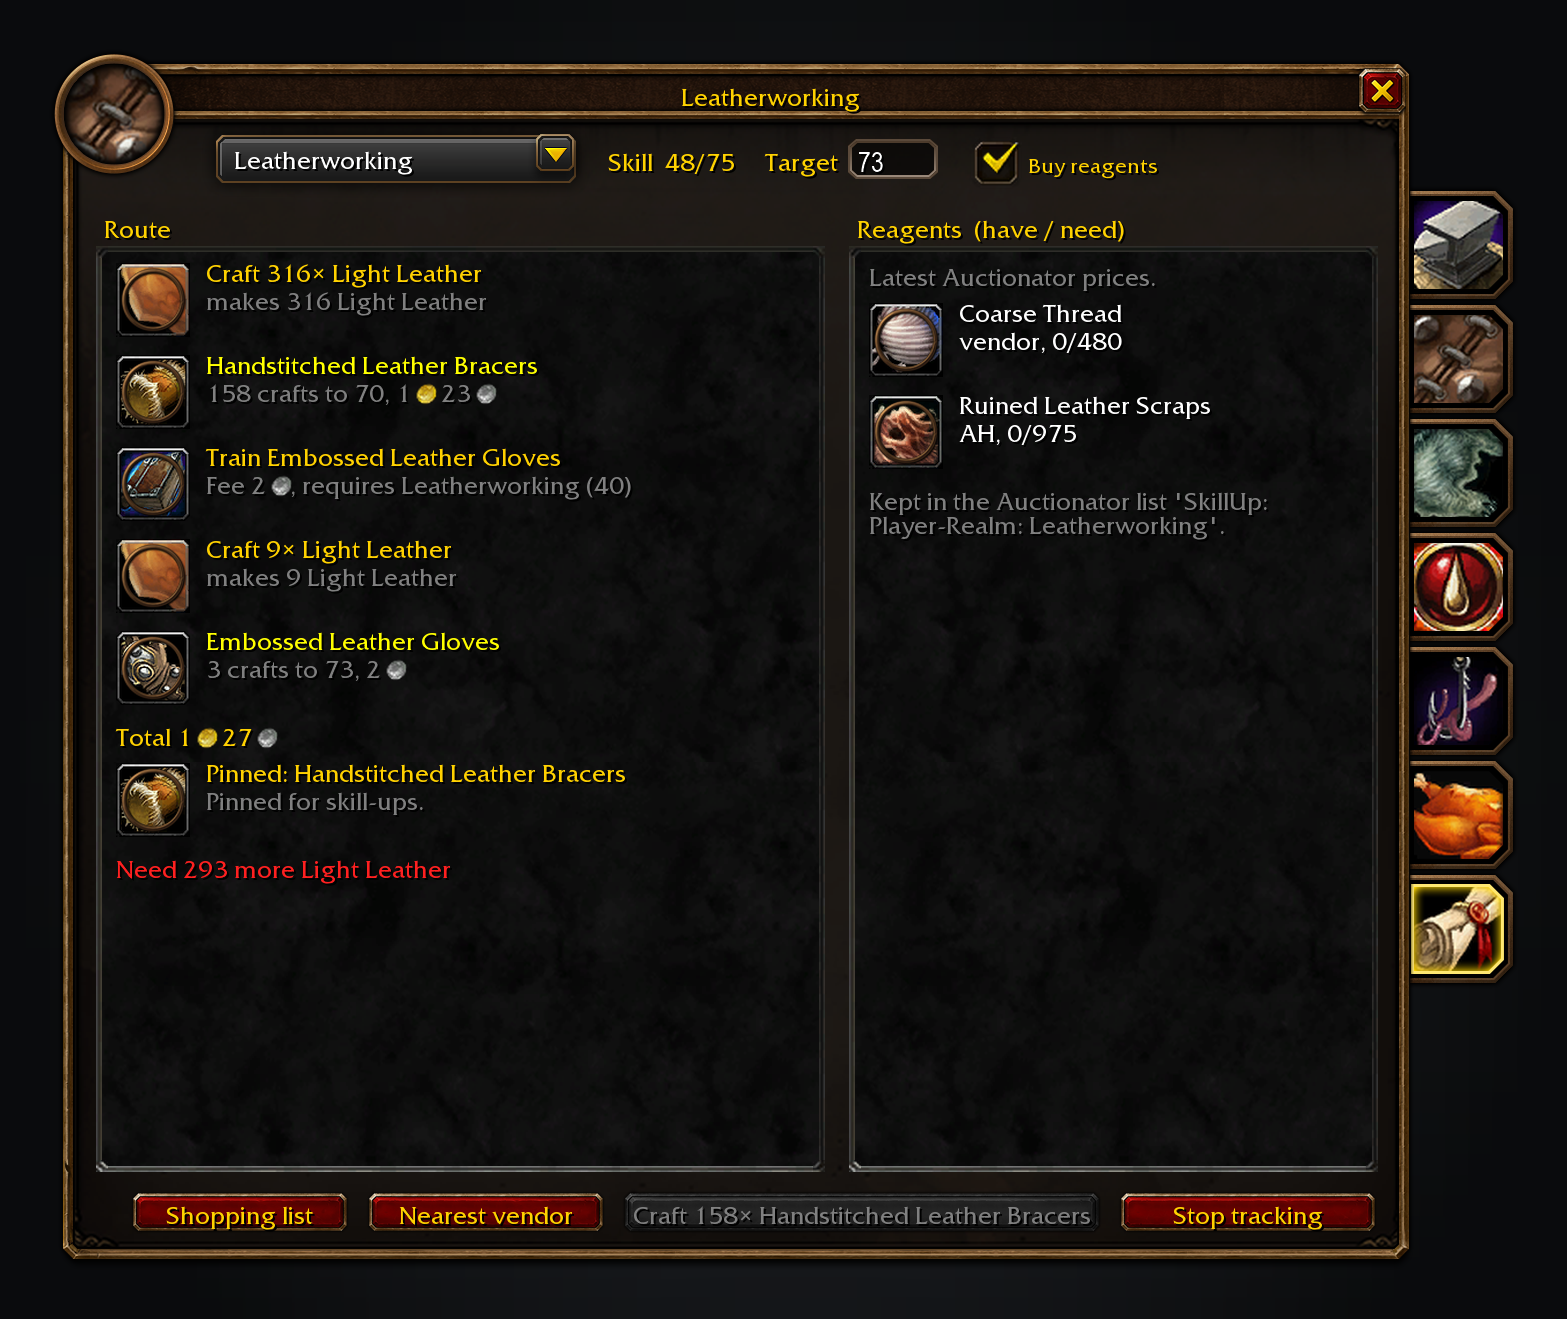
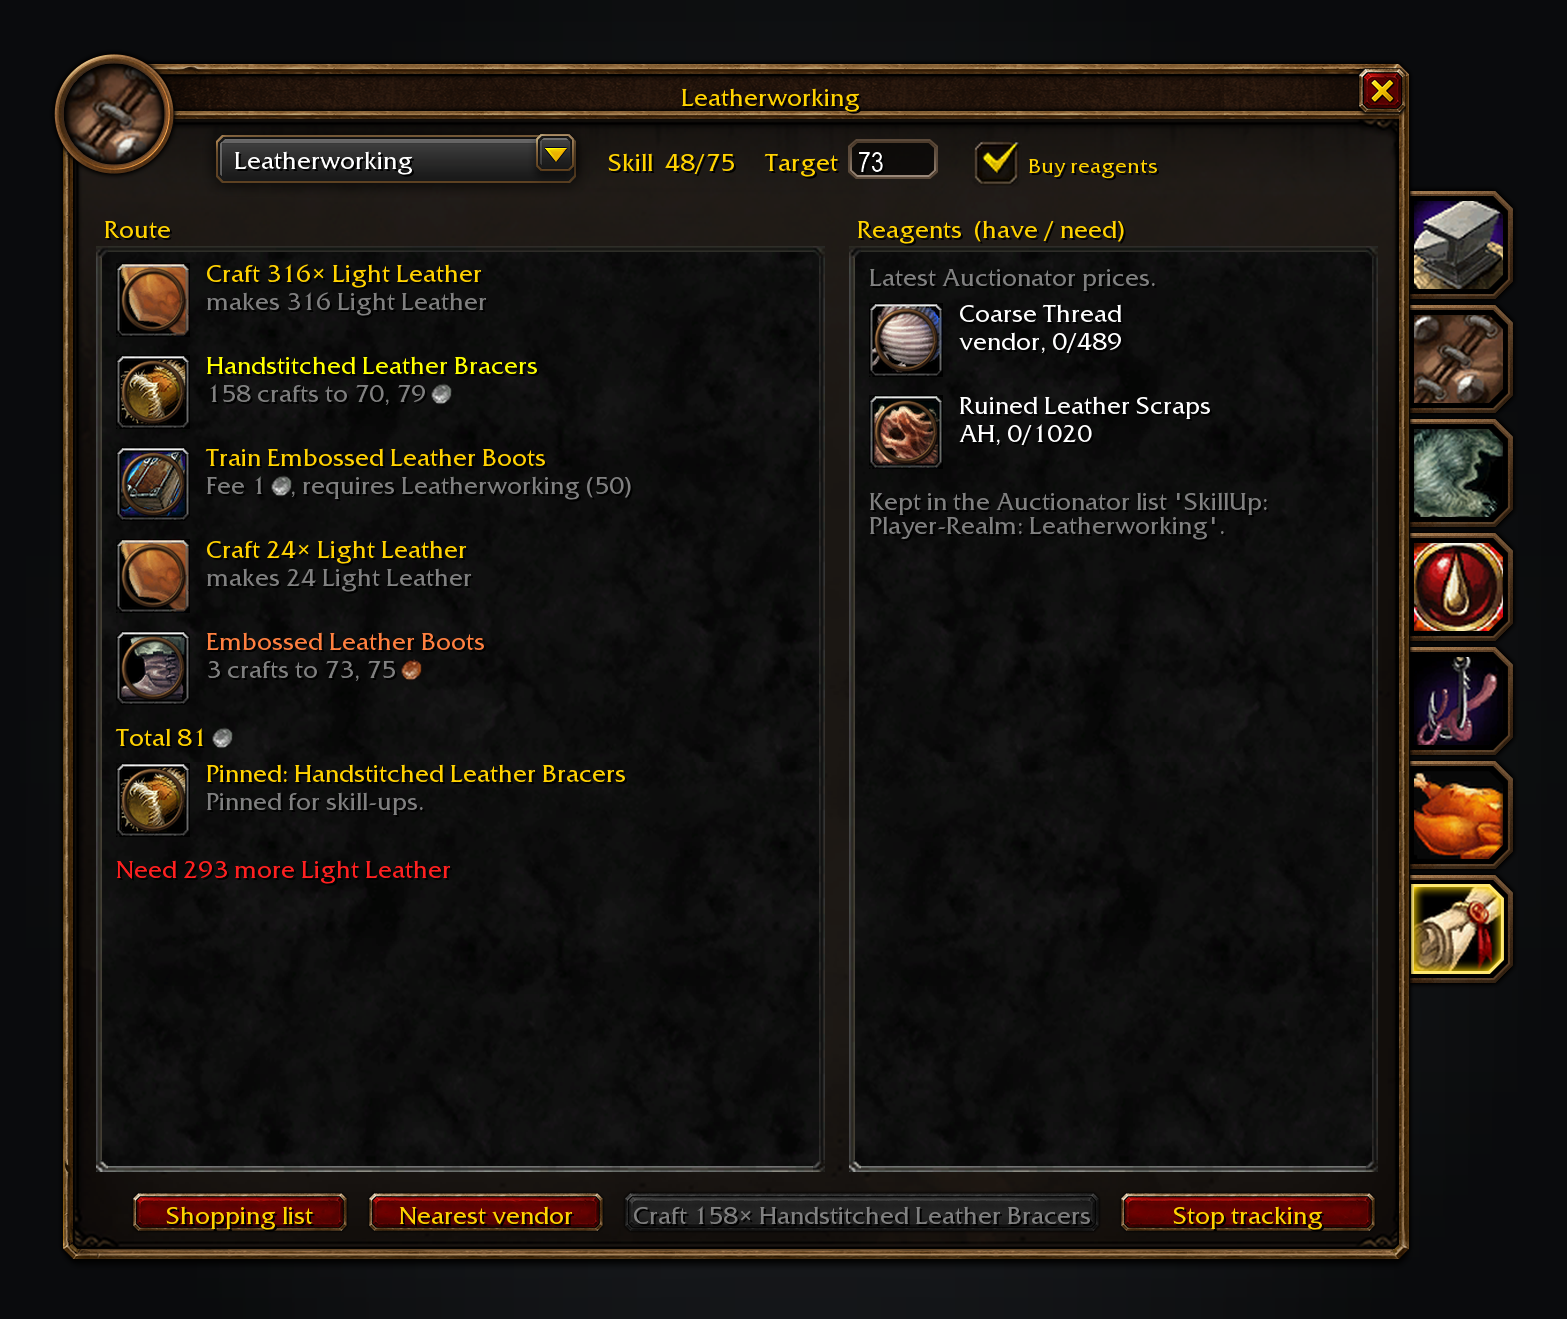
fix(route): count what crafts sell for on every craft in a step (#469)
Closes #466

Every craft in a step now counts what it sells for under *Count what
crafts sell for*. The planner ranking keeps the #400 guard
(`Model.RouteStepCost`). The route renders were re-recorded.
`model_spec`, `plan_spec` and `planner_spec` fail on the old code.

/reload test: in First Aid, check that a bandage step that vendors above
its cloth shows a gain.

🤖 Generated with [Claude Code](https://claude.com/claude-code)

https://claude.ai/code/session_01BVTqQ21nK39sQjK88Mje6P

diff --git a/docs/route.md b/docs/route.md
@@ -9,7 +9,7 @@ A map tab under the Professions window's side tabs opens a SkillUp page. Pick an
 ### How it picks
 
 - Each skill point uses the most recently pinned recipe that can gain skill, or the recipe with the lowest cost per skill-up when none is pinned.
-- A step asks for enough crafts to reach its target in nine runs out of ten, worked out from the chance at each skill point on the way, not from the average. An orange recipe is unchanged; a yellow or green one carries its risk in its price, so the route leans on it less. The craft that earns a point costs its net, and the extra crafts a falling chance needs are priced at its reagents, so a near-grey recipe does not hold the route into grey. In choosing, each craft also costs a little for its time, so a stretch where the chance falls to 1 in 30 loses to a recipe with a better chance even when its reagents are free.
+- A step asks for enough crafts to reach its target in nine runs out of ten, worked out from the chance at each skill point on the way, not from the average. An orange recipe is unchanged; a yellow or green one carries its risk in its price, so the route leans on it less. A recipe that costs money prices every craft at its net, so what its products sell for lowers the whole step, not only the first craft. A free or profitable recipe's extra crafts a falling chance needs are priced at its reagents, so a near-grey recipe does not hold the route into grey. In choosing, each craft also costs a little for its time, so a stretch where the chance falls to 1 in 30 loses to a recipe with a better chance even when its reagents are free.
 - Recipes a trainer teaches are included when they pay for themselves or you pin them, shown as a *Train* step with its fee. The fee is counted once, and never before the trainer would teach them.
 - Recipes with an unpriced reagent are left out and counted.
 - Recipes you said *Not this recipe* to are left out (see below).

diff --git a/CHANGELOG.md b/CHANGELOG.md
@@ -12,6 +12,8 @@ optional `### For addon authors` subsection after a version's player bullets.
 
 ## [Unreleased]
 
+- **A recipe's product now lowers the cost of every craft in its step, not only the first.** The route page priced a step's first craft with what its product sells for and every later craft at its full reagent cost, so a bandage that vendors above its cloth showed only the cloth's cost, and a profitable recipe never showed the gain its gold made. Every craft now counts the sale under *Count what crafts sell for*, while a free or profitable recipe's extra crafts still pay their reagents so a run to grey does not look free. Reported on CurseForge by st3nlee (#466).
+
 ## [1.1.7] - 2026-11-09
 
 - **Opening the Professions window's Filter menu with a gamepad no longer gets SkillUp blamed for a blocked action.** SkillUp adds its sort and buff options to the Professions window's own Filter menu, and the client opens that menu from the gamepad footer. Those options read the addon's saved settings, so the client built the menu under SkillUp's taint, the gamepad frame manager took it into its focus as SkillUp's, and the next secure reader's protected call was refused. With the gamepad interface on the menu keeps the client's own filters, and both settings stay in the addon's settings page; with mouse and keyboard the options are there as before. Reported on CurseForge by Viper2042 (#454, #398).
